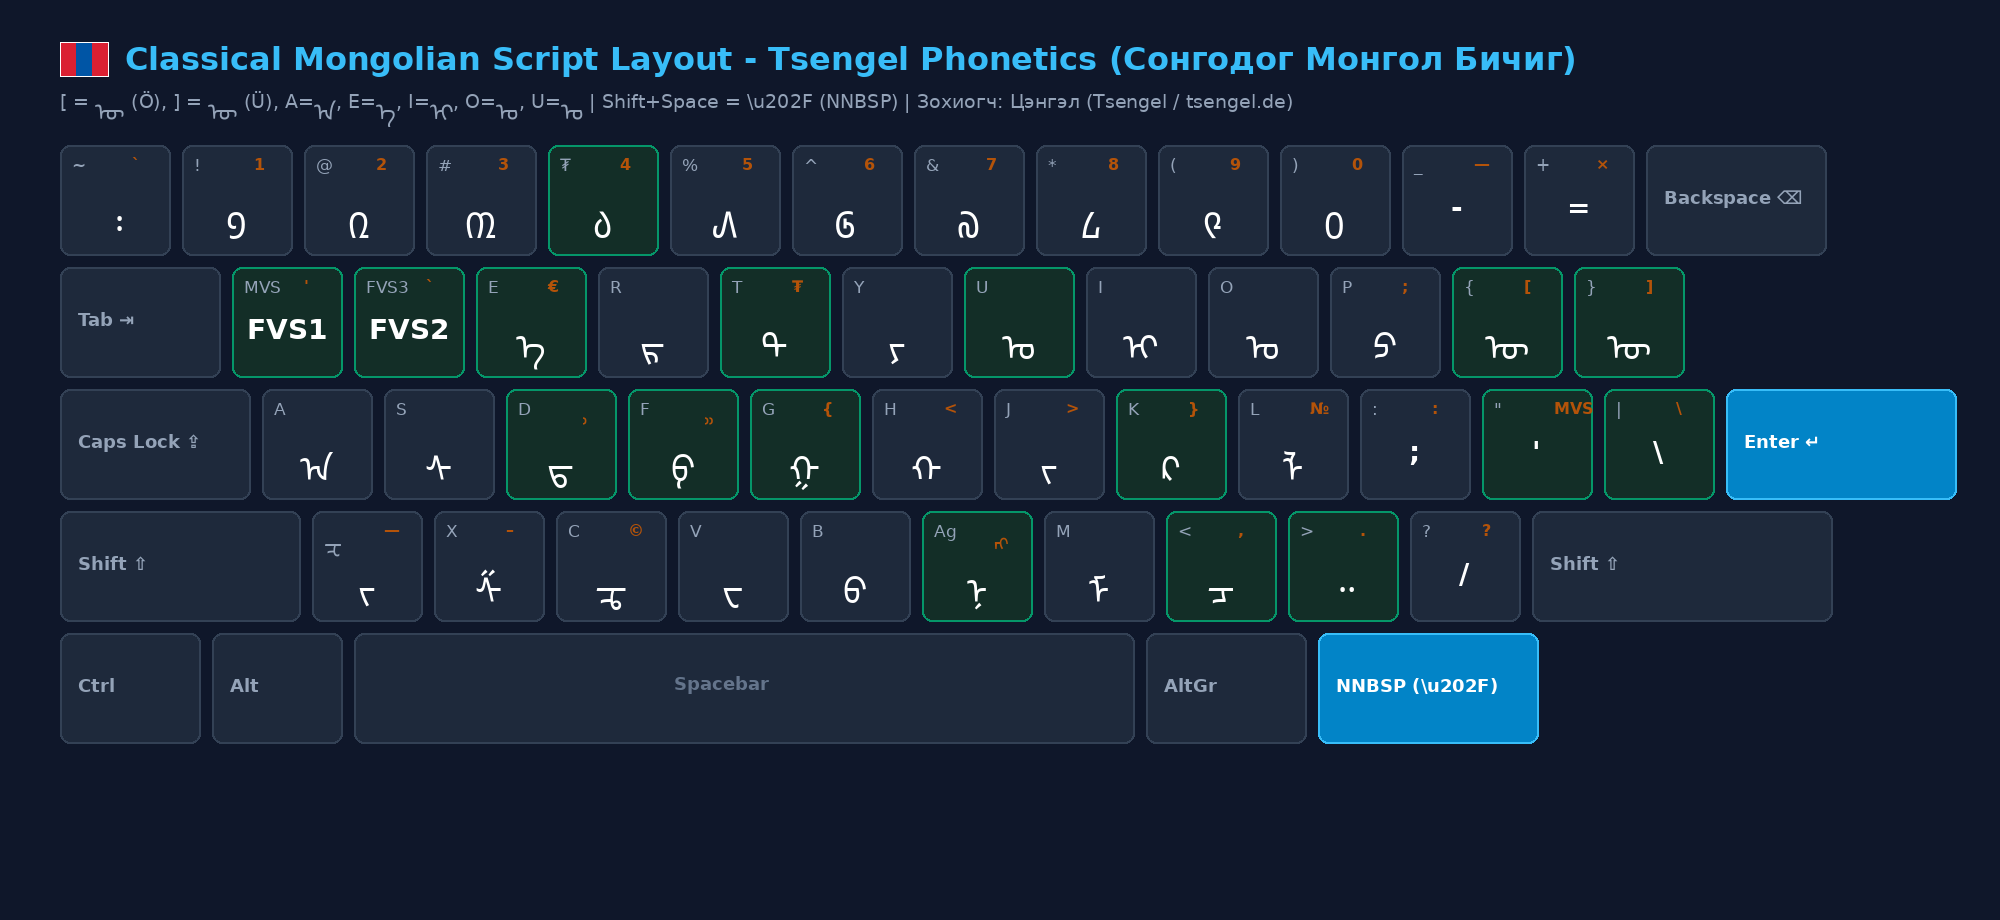
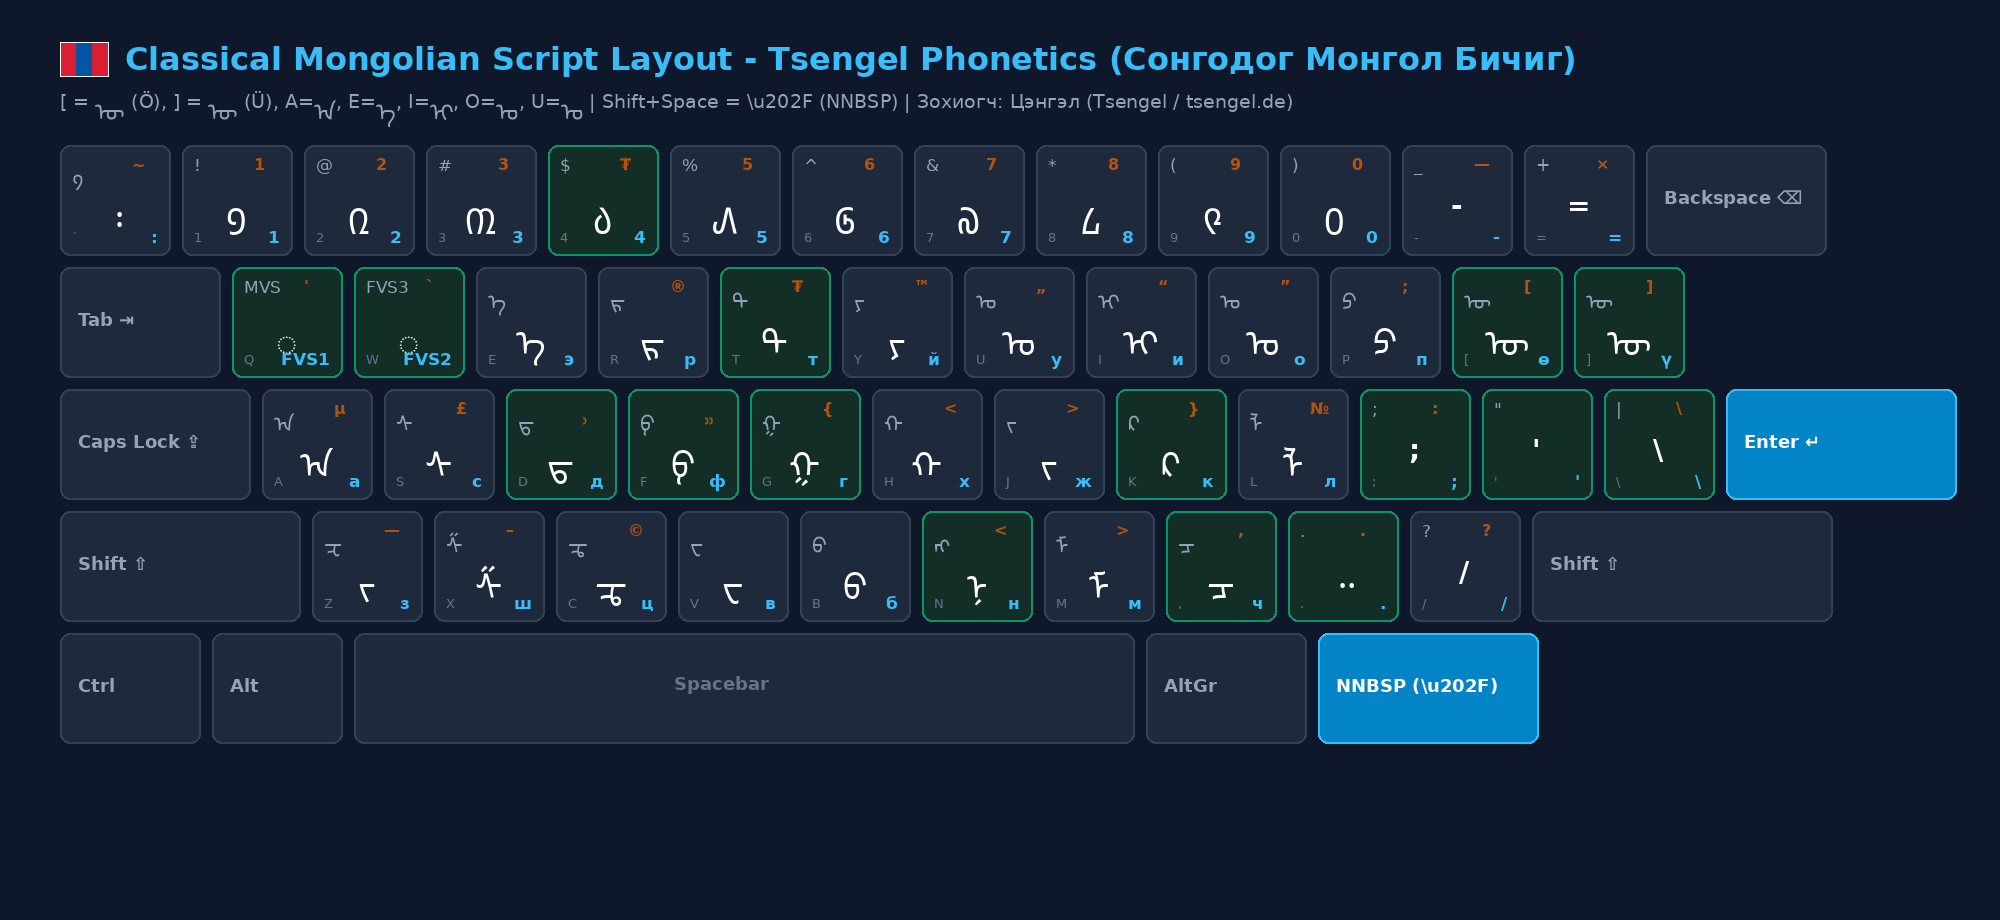
feat(diagram): add Cyrillic phonetic badges and Latin key labels to Classical Mongolian Script layout diagram

diff --git a/scripts/generate_diagrams.py b/scripts/generate_diagrams.py
@@ -44,30 +44,64 @@ BACHKA_ROW4 = [
     ('Ю', 'ю', '.', True), ('Я', 'я', '?', True)
 ]
 
-# Classical Mongolian Script (Bachka Phonetics: [=ᠥ, ]=ᠦ, A=ᠠ, E=ᠡ...)
+# Classical Mongolian Script (Tsengel Phonetics: [=ᠥ, ]=ᠦ, A=ᠠ, E=ᠡ...)
 BICHIG_ROW1 = [
-    ('~', '᠄', '`', False), ('!', '᠑', '1', False), ('@', '᠒', '2', False), ('#', '᠓', '3', False),
-    ('₮', '᠔', '4', True), ('%', '᠕', '5', False), ('^', '᠖', '6', False), ('&', '᠗', '7', False),
-    ('*', '᠘', '8', False), ('(', '᠙', '9', False), (')', '᠐', '0', False), ('_', '-', '—', False),
-    ('+', '=', '×', False)
+    ('᠀', '᠄', '~', False, '`', ':'),
+    ('!', '᠑', '1', False, '1', '1'),
+    ('@', '᠒', '2', False, '2', '2'),
+    ('#', '᠓', '3', False, '3', '3'),
+    ('$', '᠔', '₮', True, '4', '4'),
+    ('%', '᠕', '5', False, '5', '5'),
+    ('^', '᠖', '6', False, '6', '6'),
+    ('&', '᠗', '7', False, '7', '7'),
+    ('*', '᠘', '8', False, '8', '8'),
+    ('(', '᠙', '9', False, '9', '9'),
+    (')', '᠐', '0', False, '0', '0'),
+    ('_', '-', '—', False, '-', '-'),
+    ('+', '=', '×', False, '=', '=')
 ]
 
 BICHIG_ROW2 = [
-    ('MVS', 'FVS1', "'", True), ('FVS3', 'FVS2', '`', True), ('E', 'ᠡ', '€', True), ('R', 'ᠷ', '', False),
-    ('T', 'ᠲ', '₮', True), ('Y', 'ᠶ', '', False), ('U', 'ᠤ', '', True), ('I', 'ᠢ', '', False),
-    ('O', 'ᠣ', '', False), ('P', 'ᠫ', ';', False), ('{', 'ᠥ', '[', True), ('}', 'ᠦ', ']', True)
+    ('MVS', '\u180B', "'", True, 'Q', 'FVS1'),
+    ('FVS3', '\u180C', '`', True, 'W', 'FVS2'),
+    ('ᠡ', 'ᠡ', '\u180E', False, 'E', 'э'),
+    ('ᠷ', 'ᠷ', '®', False, 'R', 'р'),
+    ('ᠲ', 'ᠲ', '₮', True, 'T', 'т'),
+    ('ᠶ', 'ᠶ', '™', False, 'Y', 'й'),
+    ('ᠤ', 'ᠤ', '„', False, 'U', 'у'),
+    ('ᠢ', 'ᠢ', '“', False, 'I', 'и'),
+    ('ᠣ', 'ᠣ', '”', False, 'O', 'о'),
+    ('ᠫ', 'ᠫ', ';', False, 'P', 'п'),
+    ('ᠥ', 'ᠥ', '[', True, '[', 'ө'),
+    ('ᠦ', 'ᠦ', ']', True, ']', 'ү')
 ]
 
 BICHIG_ROW3 = [
-    ('A', 'ᠠ', '', False), ('S', 'ᠰ', '', False), ('D', 'ᠳ', '᠈', True), ('F', 'ᠹ', '᠉', True),
-    ('G', 'ᠭ', '{', True), ('H', 'ᠬ', '<', False), ('J', 'ᠵ', '>', False), ('K', 'ᠺ', '}', True),
-    ('L', 'ᠯ', '№', False), (':', ';', ':', False), ('"', "'", 'MVS', True), ('|', '\\', '\\', True)
+    ('ᠠ', 'ᠠ', 'μ', False, 'A', 'а'),
+    ('ᠰ', 'ᠰ', '£', False, 'S', 'с'),
+    ('ᠳ', 'ᠳ', '᠈', True, 'D', 'д'),
+    ('ᠹ', 'ᠹ', '᠉', True, 'F', 'ф'),
+    ('ᠭ', 'ᠭ', '{', True, 'G', 'г'),
+    ('ᠬ', 'ᠬ', '<', False, 'H', 'х'),
+    ('ᠵ', 'ᠵ', '>', False, 'J', 'ж'),
+    ('ᠺ', 'ᠺ', '}', True, 'K', 'к'),
+    ('ᠯ', 'ᠯ', '№', False, 'L', 'л'),
+    (';', ';', ':', True, ';', ';'),
+    ('"', "'", '\u180E', True, "'", "'"),
+    ('|', '\\', '\\', True, '\\', '\\')
 ]
 
 BICHIG_ROW4 = [
-    ('ᠽ', 'ᠵ', '—', False), ('X', 'ᠱ', '–', False), ('C', 'ᠼ', '©', False), ('V', 'ᠸ', '', False),
-    ('B', 'ᠪ', '', False), ('Ag', 'ᠨ', 'ᠩ', True), ('M', 'ᠮ', '', False), ('<', 'ᠴ', ',', True),
-    ('>', '᠃', '.', True), ('?', '/', '?', False)
+    ('ᠽ', 'ᠵ', '—', False, 'Z', 'з'),
+    ('ᠱ', 'ᠱ', '–', False, 'X', 'ш'),
+    ('ᠼ', 'ᠼ', '©', False, 'C', 'ц'),
+    ('ᠸ', 'ᠸ', '', False, 'V', 'в'),
+    ('ᠪ', 'ᠪ', '', False, 'B', 'б'),
+    ('ᠩ', 'ᠨ', '<', True, 'N', 'н'),
+    ('ᠮ', 'ᠮ', '>', False, 'M', 'м'),
+    ('ᠴ', 'ᠴ', ',', True, ',', 'ч'),
+    ('.', '᠃', '.', True, '.', '.'),
+    ('?', '/', '?', False, '/', '/')
 ]
 
 def is_mongol_script(text):
@@ -117,6 +151,8 @@ def render_layout(title, subtitle, row1, row2, row3, row4, mode='normal', out_fi
     font_alt = ImageFont.truetype(FONT_BOLD, 16)
     font_alt_bichig = ImageFont.truetype(FONT_BICHIG, 20)
     font_special = ImageFont.truetype(FONT_BOLD, 18)
+    font_badge = ImageFont.truetype(FONT_BOLD, 17)
+    font_latin = ImageFont.truetype(FONT_REG, 13)
 
     # Draw flag badge
     draw_flag_badge(draw, 60, 42, h=34)
@@ -134,7 +170,7 @@ def render_layout(title, subtitle, row1, row2, row3, row4, mode='normal', out_fi
     # Row 1
     cur_x = start_x
     for k in row1:
-        draw_key(draw, cur_x, start_y, key_w, key_h, k, mode, font_main, font_main_bichig, font_top, font_top_bichig, font_alt, font_alt_bichig)
+        draw_key(draw, cur_x, start_y, key_w, key_h, k, mode, font_main, font_main_bichig, font_top, font_top_bichig, font_alt, font_alt_bichig, font_badge, font_latin)
         cur_x += key_w + gap
     draw_special_key(draw, cur_x, start_y, 180, key_h, "Backspace ⌫", font_special)
 
@@ -143,7 +179,7 @@ def render_layout(title, subtitle, row1, row2, row3, row4, mode='normal', out_fi
     draw_special_key(draw, start_x, cur_y, 160, key_h, "Tab ⇥", font_special)
     cur_x = start_x + 160 + gap
     for k in row2:
-        draw_key(draw, cur_x, cur_y, key_w, key_h, k, mode, font_main, font_main_bichig, font_top, font_top_bichig, font_alt, font_alt_bichig)
+        draw_key(draw, cur_x, cur_y, key_w, key_h, k, mode, font_main, font_main_bichig, font_top, font_top_bichig, font_alt, font_alt_bichig, font_badge, font_latin)
         cur_x += key_w + gap
 
     # Row 3
@@ -151,7 +187,7 @@ def render_layout(title, subtitle, row1, row2, row3, row4, mode='normal', out_fi
     draw_special_key(draw, start_x, cur_y, 190, key_h, "Caps Lock ⇪", font_special)
     cur_x = start_x + 190 + gap
     for k in row3:
-        draw_key(draw, cur_x, cur_y, key_w, key_h, k, mode, font_main, font_main_bichig, font_top, font_top_bichig, font_alt, font_alt_bichig)
+        draw_key(draw, cur_x, cur_y, key_w, key_h, k, mode, font_main, font_main_bichig, font_top, font_top_bichig, font_alt, font_alt_bichig, font_badge, font_latin)
         cur_x += key_w + gap
     draw_special_key(draw, cur_x, cur_y, 230, key_h, "Enter ↵", font_special, is_accent=True)
 
@@ -160,7 +196,7 @@ def render_layout(title, subtitle, row1, row2, row3, row4, mode='normal', out_fi
     draw_special_key(draw, start_x, cur_y, 240, key_h, "Shift ⇧", font_special, is_shift=(mode == 'shift'))
     cur_x = start_x + 240 + gap
     for k in row4:
-        draw_key(draw, cur_x, cur_y, key_w, key_h, k, mode, font_main, font_main_bichig, font_top, font_top_bichig, font_alt, font_alt_bichig)
+        draw_key(draw, cur_x, cur_y, key_w, key_h, k, mode, font_main, font_main_bichig, font_top, font_top_bichig, font_alt, font_alt_bichig, font_badge, font_latin)
         cur_x += key_w + gap
     draw_special_key(draw, cur_x, cur_y, 300, key_h, "Shift ⇧", font_special, is_shift=(mode == 'shift'))
 
@@ -184,8 +220,13 @@ def render_layout(title, subtitle, row1, row2, row3, row4, mode='normal', out_fi
     im.save(out_path, quality=95)
     print(f"Generated: {out_path}")
 
-def draw_key(draw, x, y, w, h, k, mode, f_main, f_main_bichig, f_top, f_top_bichig, f_alt, f_alt_bichig):
-    top, main, alt, devops = k
+def draw_key(draw, x, y, w, h, k, mode, f_main, f_main_bichig, f_top, f_top_bichig, f_alt, f_alt_bichig, f_badge=None, f_latin=None):
+    top = k[0]
+    main = k[1]
+    alt = k[2]
+    devops = k[3]
+    latin = k[4] if len(k) > 4 else ''
+    sub = k[5] if len(k) > 5 else ''
 
     bg = '#1e293b'
     border = '#334155'
@@ -229,9 +270,19 @@ def draw_key(draw, x, y, w, h, k, mode, f_main, f_main_bichig, f_top, f_top_bich
     bbox = draw.textbbox((0, 0), char_to_draw, font=used_main_font)
     text_w = bbox[2] - bbox[0]
     center_x = x + (w - text_w) // 2
-    center_y = y + (40 if is_mongol_script(char_to_draw) else 46)
+    center_y = y + (36 if is_mongol_script(char_to_draw) else 44)
 
     draw.text((center_x, center_y), char_to_draw, fill=fill_color, font=used_main_font)
+
+    # Bottom-left: Physical Latin key
+    if latin and f_latin:
+        draw.text((x + 12, y + h - 26), latin, fill='#64748b', font=f_latin)
+
+    # Bottom-right: Cyrillic companion helper badge
+    if sub and f_badge:
+        bbox_sub = f_badge.getbbox(sub)
+        sub_w = bbox_sub[2] - bbox_sub[0]
+        draw.text((x + w - sub_w - 12, y + h - 28), sub, fill='#38bdf8', font=f_badge)
 
 def draw_special_key(draw, x, y, w, h, label, font, is_accent=False, is_shift=False, is_altgr=False):
     bg = '#1e293b'
